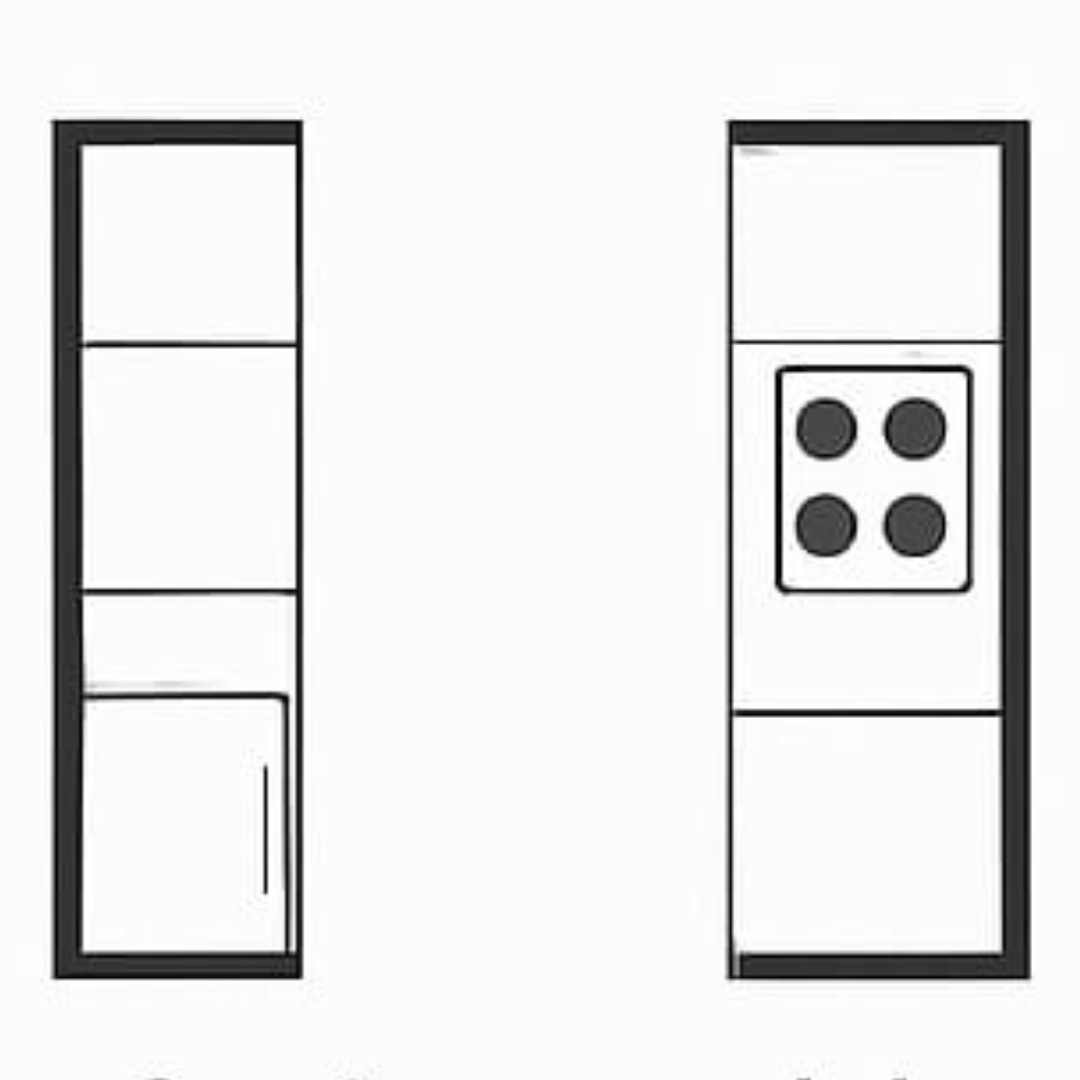
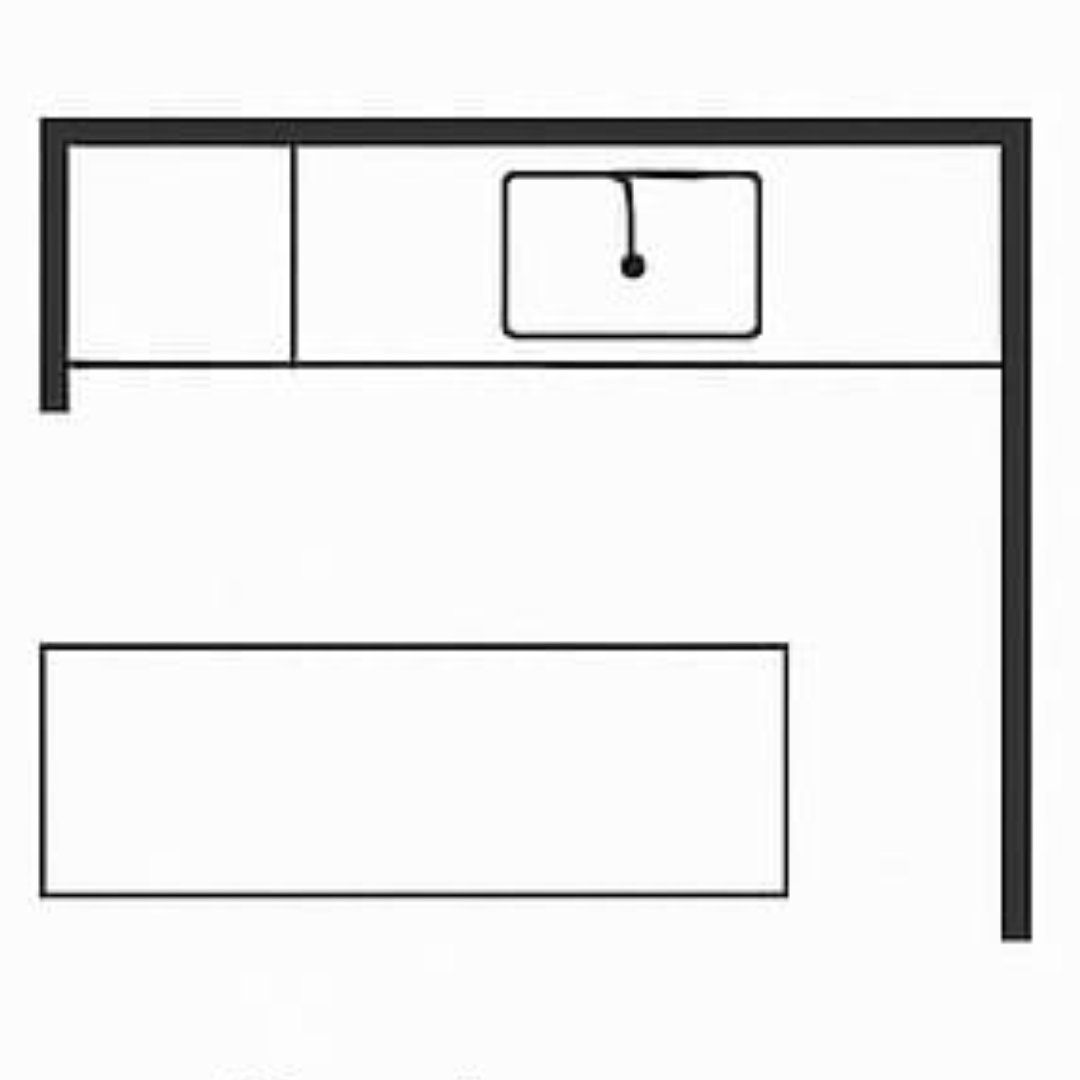
preference wizard option fixed

Changed region(s): [[0.0306, 0.0917, 0.9778, 0.9167]]

diff --git a/frontend/src/app/[locale]/(sets)/preferences/page.tsx b/frontend/src/app/[locale]/(sets)/preferences/page.tsx
@@ -1,47 +1,20 @@
 'use client'
 import React, { useState } from 'react'
 import PageLayout from "@/components/layout/PageLayout";
-import { PREFERENCE_WIZARD_ITEMS } from "@/app/assets/assets";
+import { PREFERENCE_WIZARD_ITEMS, WizardSection, ApplianceOption } from "@/app/assets/assets";
 import { Heading } from '@/components/ui/Heading';
 import { Paragraph } from '@/components/ui/Paragraph';
 import { LinkItem } from "@/components/ui/LinkItem";
 import { Button } from '@/components/ui/Button';
 import { useRouter } from 'next/navigation';
 import { usePreferenceWizardStore } from '@/store/preferenceWizardStore';
+import Image from 'next/image';
 
 // --- DEFINICIONES DE TIPOS LOCALES ---
 
-interface DimensionFields {
-  [key: string]: number | '';
-}
-interface WizardOption {
-  key: string;
-  label: string;
-  description?: string;
-  imageSrc?: string; // Propiedad para la imagen
-}
-
-interface Appliance {
-  key: string;
-  label: string;
-  fields?: string[];
-}
-
-interface WizardSection {
-  key: string;
-  completed: boolean;
-  title: string;
-  description: string;
-  options?: WizardOption[];
-  fields?: { name: string; label: string; type: string }[];
-  appliances?: Appliance[];
-  upload?: boolean;
-  layout?: 'list' | 'grid-2' | 'grid-3'; // Control de Layout
-}
-
 // Type Guard para appliances
 interface SectionWithAppliances extends WizardSection {
-  appliances: Appliance[];
+  appliances: ApplianceOption[];
 }
 
 const Preferences = () => {
@@ -206,10 +179,11 @@ const Preferences = () => {
                         {/* ZONA DE IMAGEN (Solo si existe imageSrc) */}
                         {option.imageSrc && (
                           <div className="w-full h-40 bg-gray-100 relative overflow-hidden border-b border-gray-100">
-                            <img
+                            <Image
                               src={option.imageSrc}
                               alt={option.label}
-                              className="w-full h-full object-cover transition-transform duration-500 group-hover:scale-105"
+                              fill
+                              className="object-cover transition-transform duration-500 group-hover:scale-105 object-contain! bg-white"
                             />
                             {/* Overlay de selección visual */}
                             {isSelected && (

diff --git a/frontend/src/app/assets/assets.ts b/frontend/src/app/assets/assets.ts
@@ -36,6 +36,9 @@ export interface WizardOption {
   key: string;
   label: string;
   description?: string;
+  imageSrc?: string | StaticImageData;
+
+
 }
 
 // 2. Definimos la forma de un "Electrodoméstico" (Para la sección perdida que recuperamos)
@@ -62,6 +65,7 @@ export interface WizardSection {
   options?: WizardOption[];     // Array de opciones seleccionables
   fields?: WizardField[];       // Array de inputs manuales
   appliances?: ApplianceOption[];
+  layout?: string;
   // Array especial de electrodomésticos
 }
 
@@ -256,31 +260,31 @@ export const PREFERENCE_WIZARD_ITEMS: WizardSection[] = [
       {
         key: "en_l",
         label: "En L",
-        imageSrc: "/images/planner/layout-l-shape.jpg",
+        imageSrc: assets.l_shape,
         description: "Muebles en dos paredes perpendiculares."
       },
       {
         key: "en_u",
         label: "En U",
-        imageSrc: "/images/planner/layout-u-shape.jpg",
+        imageSrc: assets.u_shape,
         description: "Muebles en tres paredes."
       },
       {
         key: "con_isla",
         label: "Con Isla",
-        imageSrc: "/images/planner/layout-island.jpg",
+        imageSrc: assets.island,
         description: "Distribución con módulo central aislado."
       },
       {
         key: "doble_linea",
         label: "Paralela",
-        imageSrc: "/images/planner/layout-parallel.jpg",
+        imageSrc: assets.parallel,
         description: "Dos filas de muebles frente a frente."
       },
       {
         key: "peninsula",
         label: "Con Península",
-        imageSrc: "/images/planner/layout-peninsula.jpg",
+        imageSrc: assets.peninsula,
         description: "Un extremo unido a la pared o muebles."
       }
     ]
